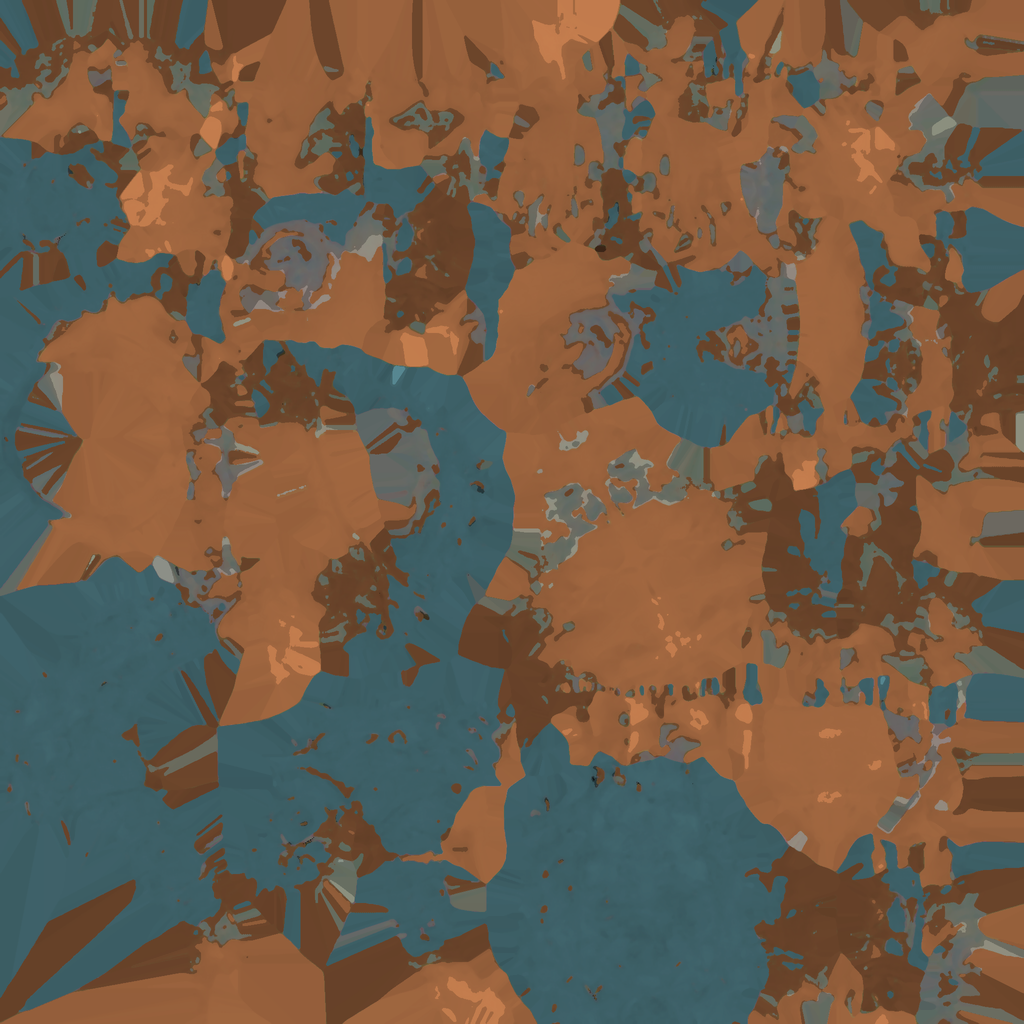
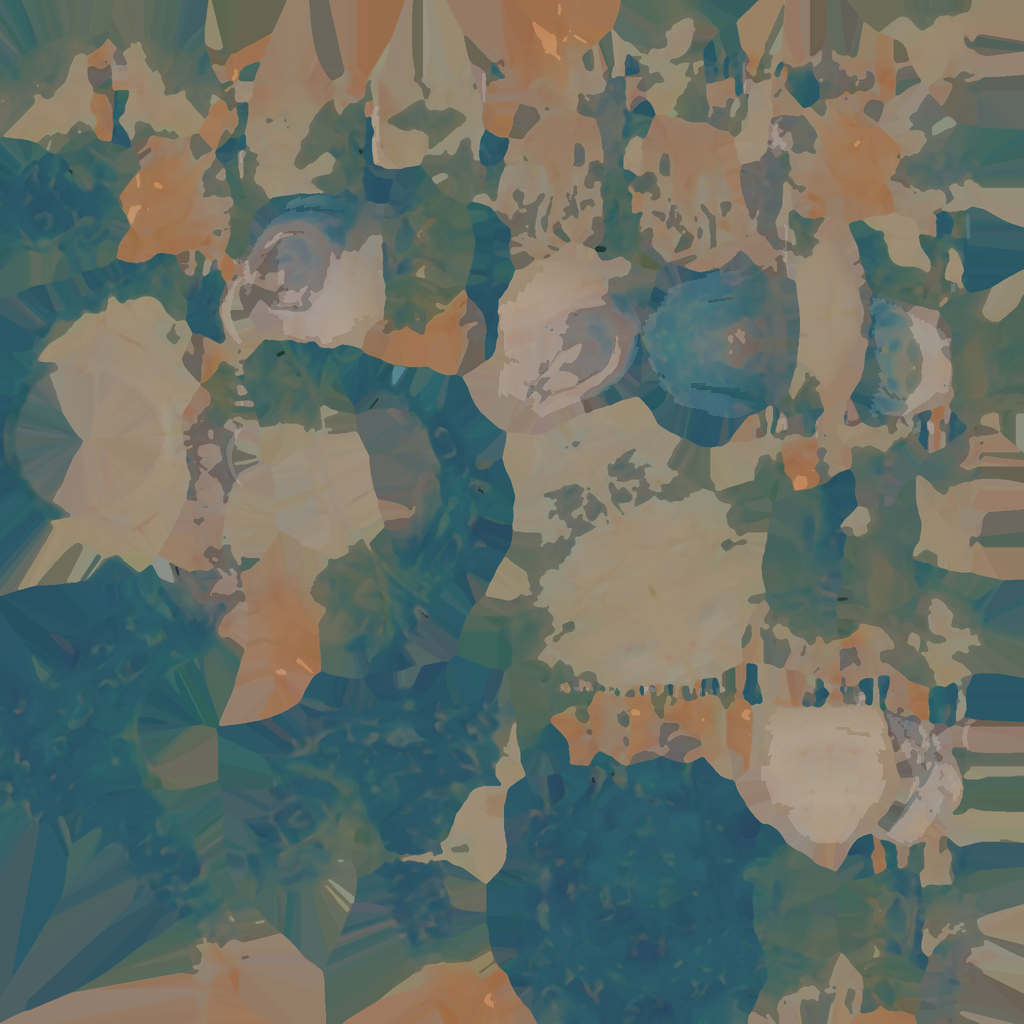
Ground Torrentoad and recover creature faces

diff --git a/tools/repair_torrentoad_attack_grounding.py b/tools/repair_torrentoad_attack_grounding.py
@@ -1,0 +1,168 @@
+#!/usr/bin/env python3
+"""Ground Torrentoad's authored attack without changing its silhouette or timing.
+
+The installed clip rotates the rig through the floor: a native Godot sweep measured
+the rendered minimum at -0.92 m near contact.  Its root translation has only two
+constant keys, so this replaces that channel with one calibrated lift key per source
+frame.  The values are model-local and therefore remain correct for both the base and
+namespaced Water presentation scales.
+"""
+
+from __future__ import annotations
+
+import hashlib
+import json
+import pathlib
+import struct
+
+
+ROOT = pathlib.Path(__file__).resolve().parents[1]
+MODEL = ROOT / "assets/creatures/tetherbound/torrentoad/models/creature_torrentoad_lod0.glb"
[1 lines of base64/hex data omitted]
+ROOT_SAFETY_MARGIN = 0.006
+
+# (seconds, model-local Y lift). Derived from the calibrated CPU skinning model at
+# every 24 fps source frame, with a 0.5 mm local safety margin only where the
+# uncorrected deformed mesh crossed the floor.
+LIFT_KEYS = [
+    (0.000000000, 0.191654611), (0.041666667, 0.191654611),
+    (0.083333333, 0.200132296), (0.125000000, 0.221955451),
+    (0.166666667, 0.250922450), (0.208333333, 0.280929718),
+    (0.250000000, 0.307097265), (0.291666667, 0.326946478),
+    (0.333333333, 0.339371633), (0.375000000, 0.345688603),
+    (0.416666667, 0.347944783), (0.458333333, 0.348340386),
+    (0.500000000, 0.303896651), (0.541666667, 0.184892339),
+    (0.583333333, 0.021714210), (0.625000000, 0.014275387),
+    (0.666666667, 0.021716715), (0.708333333, 0.020780528),
+    (0.750000000, 0.018149921), (0.791666667, 0.014199599),
+    (0.833333333, 0.009363781), (0.875000000, 0.004584988),
+    (0.916666667, 0.001299365), (0.958333333, 0.000000000),
+]
+
+
+def chunks(raw: bytes) -> tuple[dict, bytearray]:
+    magic, version, length = struct.unpack_from("<III", raw, 0)
+    if magic != 0x46546C67 or version != 2 or length != len(raw):
+        raise SystemExit("Torrentoad source is not a valid glTF 2 GLB")
+    offset = 12
+    document = None
+    binary = None
+    while offset < len(raw):
+        size, kind = struct.unpack_from("<II", raw, offset)
+        payload = raw[offset + 8:offset + 8 + size]
+        if kind == 0x4E4F534A:
+            document = json.loads(payload)
+        elif kind == 0x004E4942:
+            binary = bytearray(payload)
+        offset += 8 + size
+    if document is None or binary is None:
+        raise SystemExit("Torrentoad GLB lacks JSON or BIN data")
+    return document, binary
+
+
+def accessor_values(document: dict, binary: bytearray, index: int) -> list[tuple[float, ...]]:
+    accessor = document["accessors"][index]
+    view = document["bufferViews"][accessor["bufferView"]]
+    width = {"SCALAR": 1, "VEC3": 3}[accessor["type"]]
+    start = view.get("byteOffset", 0) + accessor.get("byteOffset", 0)
+    stride = view.get("byteStride", width * 4)
+    return [struct.unpack_from("<" + "f" * width, binary, start + row * stride)
+            for row in range(accessor["count"])]
+
+
+def append_accessor(document: dict, binary: bytearray, values: list[tuple[float, ...]], kind: str) -> int:
+    while len(binary) % 4:
+        binary.append(0)
+    offset = len(binary)
+    width = 1 if kind == "SCALAR" else 3
+    for value in values:
+        binary.extend(struct.pack("<" + "f" * width, *value))
+    view_index = len(document["bufferViews"])
+    document["bufferViews"].append({"buffer": 0, "byteOffset": offset,
+                                     "byteLength": len(values) * width * 4})
+    flattened = list(zip(*values))
+    accessor = {"bufferView": view_index, "componentType": 5126,
+                "count": len(values), "type": kind,
+                "min": [min(axis) for axis in flattened],
+                "max": [max(axis) for axis in flattened]}
+    document["accessors"].append(accessor)
+    return len(document["accessors"]) - 1
+
+
+def overwrite_vec3_accessor(document: dict, binary: bytearray, index: int,
+                            values: list[tuple[float, float, float]]) -> None:
+    accessor = document["accessors"][index]
+    view = document["bufferViews"][accessor["bufferView"]]
+    if accessor["componentType"] != 5126 or accessor["type"] != "VEC3" or accessor["count"] != len(values):
+        raise SystemExit("corrected Torrentoad root accessor has an unexpected shape")
+    start = view.get("byteOffset", 0) + accessor.get("byteOffset", 0)
+    stride = view.get("byteStride", 12)
+    for row, value in enumerate(values):
+        struct.pack_into("<fff", binary, start + row * stride, *value)
+    accessor["min"] = [min(axis) for axis in zip(*values)]
+    accessor["max"] = [max(axis) for axis in zip(*values)]
+
+
+def write_glb(document: dict, binary: bytearray) -> None:
+    document["buffers"][0]["byteLength"] = len(binary)
+    encoded_json = json.dumps(document, separators=(",", ":"), ensure_ascii=False).encode("utf-8")
+    encoded_json += b" " * ((-len(encoded_json)) % 4)
+    binary += b"\0" * ((-len(binary)) % 4)
+    total = 12 + 8 + len(encoded_json) + 8 + len(binary)
+    rebuilt = (struct.pack("<III", 0x46546C67, 2, total)
+               + struct.pack("<II", len(encoded_json), 0x4E4F534A) + encoded_json
+               + struct.pack("<II", len(binary), 0x004E4942) + binary)
+    temporary = MODEL.with_suffix(".glb.tmp")
+    temporary.write_bytes(rebuilt)
+    temporary.replace(MODEL)
+
+
+def main() -> None:
+    raw = MODEL.read_bytes()
+    source_hash = hashlib.sha256(raw).hexdigest().upper()
+    document, binary = chunks(raw)
+    animation = next((item for item in document.get("animations", [])
+                      if item.get("name") == "attack"), None)
+    root = next((index for index, node in enumerate(document.get("nodes", []))
+                 if node.get("name") == "root"), None)
+    channel = next((item for item in animation.get("channels", [])
+                    if item["target"] == {"node": root, "path": "translation"}), None) \
+        if animation is not None else None
+    if channel is None:
+        raise SystemExit("Torrentoad attack root-translation channel is unavailable")
+    sampler = animation["samplers"][channel["sampler"]]
+    existing_times = accessor_values(document, binary, sampler["input"])
+    existing_values = accessor_values(document, binary, sampler["output"])
+    desired_first = LIFT_KEYS[0][1] + ROOT_SAFETY_MARGIN
+    if len(existing_times) == len(LIFT_KEYS):
+        if abs(existing_values[0][1] - desired_first) < 1e-5:
+            print("Torrentoad attack grounding already applied")
+            return
+        if abs(existing_values[0][1] - LIFT_KEYS[0][1]) < 1e-5:
+            translations = [(value[0], value[1] + (ROOT_SAFETY_MARGIN if lift > 0.0 else 0.0), value[2])
+                            for value, (_time, lift) in zip(existing_values, LIFT_KEYS)]
+            overwrite_vec3_accessor(document, binary, sampler["output"], translations)
+            write_glb(document, binary)
+            print("Raised corrected Torrentoad root keys by the trajectory interpolation margin")
+            return
+    if source_hash != SOURCE_SHA256 or len(existing_times) != 2 or len(existing_values) != 2:
+        raise SystemExit("Torrentoad GLB differs from the calibrated source; refusing a blind rewrite")
+
+    start_time, end_time = existing_times[0][0], existing_times[-1][0]
+    start_value, end_value = existing_values
+    times = [(time,) for time, _lift in LIFT_KEYS]
+    translations = []
+    for time, lift in LIFT_KEYS:
+        amount = max(0.0, min(1.0, (time - start_time) / (end_time - start_time)))
+        base = tuple(start_value[axis] + (end_value[axis] - start_value[axis]) * amount
+                     for axis in range(3))
+        translations.append((base[0], base[1] + lift + (ROOT_SAFETY_MARGIN if lift > 0.0 else 0.0), base[2]))
+    sampler["input"] = append_accessor(document, binary, times, "SCALAR")
+    sampler["output"] = append_accessor(document, binary, translations, "VEC3")
+    sampler["interpolation"] = "LINEAR"
+    write_glb(document, binary)
+    print("Grounded Torrentoad attack with %d calibrated root keys" % len(LIFT_KEYS))
+
+
+if __name__ == "__main__":
+    main()

diff --git a/ralph/reports/FOUR-BIOME-BUILD/CREATURE-DISPOSITION-2026-09-10.md b/ralph/reports/FOUR-BIOME-BUILD/CREATURE-DISPOSITION-2026-09-10.md
@@ -1,0 +1,61 @@
+# Creature disposition — 2026-09-10
+
+Status: two retained production improvements, one rejected face experiment, and
+two asset-level gaps isolated. No Meshy generation or credit was spent.
+
+## Retained
+
+- **Skyrill surface hierarchy.** The former rule forced nearly every chromatic
+  texel to one cyan and erased the installed atlas's blue/coral/cream anatomy.
+  The ordinary texture now preserves the source regions, caps only excessive
+  saturation, and lifts/deepens the forward head plane. A fresh production-body
+  orientation capture has a readable eye, muzzle, cream underside and warm wing
+  edge. This improves the installed asset but does not make its broad winged
+  silhouette match the owner's compact sail-backed cliff-lizard board.
+- **Torrentoad palette and attack contact.** The ordinary texture now preserves
+  the source's slate-blue wet back, cream throat and restrained warm digits rather
+  than flattening the body into orange/teal. The attack GLB's constant two-key root
+  translation was replaced by a calibrated source-frame grounding curve. The
+  matched low pose changed from `minimum_world_y=-0.8884697`, `4965` vertices below
+  floor to `minimum_world_y=0.0154347`, `0` below floor. A 25-point full-trajectory
+  native Compatibility sweep has zero below-floor vertices at every sample.
+
+Evidence is intentionally ignored under
+`.artifacts/torrentoad-face-contact-0909/captures/` and
+`.artifacts/broad-visual-0910/creature-orientation01/shots/`.
+
+## Rejected
+
+An anatomy-mapped Torrentoad eye treatment tried dark paired sockets plus amber
+centres. The inner predicate covered nothing and the outer predicate rendered as
+vertical cheek stripes, not eyes. It was removed before the retained texture was
+generated. The final texture contains only the source-preserving grade and broad
+forward-face separation.
+
+## What is actually still wrong
+
+1. **Skyrill is an asset mismatch, not a shader problem.** At its 3.25 m authored
+   height the installed low dragon's rest wings span roughly 12.6 m. The owner board
+   is a compact quadruped with a large eye and dorsal sail. More recolouring cannot
+   reconcile those silhouettes.
+2. **Torrentoad's eyes are not readable frontal forms on the installed mesh.** Its
+   palette and floor contact can be repaired without replacement, but the owner
+   board's large amber eyes are not available as clean visible geometry/UV islands.
+   The rejected paint test establishes that another broad anatomical mask would be
+   fabrication, not recovery of authored detail.
+3. **Exploration crowding is an envelope/admission mismatch.** Spawn admission and
+   creature spacing use gameplay capsule radii while several rendered bodies extend
+   6–11 m. The previously tested shared road ribbon is not a solution: peaceful
+   creatures rotate their complete envelope toward the trainer inside the 9 m notice
+   range. The safe next implementation is habitat/site-specific presentation
+   clearance or a notice-turn constraint, followed by the four-biome route capture;
+   do not shrink the roster or repeat the failed shared ribbon.
+
+## Next authorization boundary
+
+The one agent-generated-reference Meshy pilot was already consumed by Galecrest.
+Replacing Skyrill or Torrentoad is a second subject and therefore needs a new owner
+instruction under `CLAUDE.md`. If one replacement is authorized, Skyrill is the
+higher-leverage first target because its silhouette creates both the board mismatch
+and the largest exploration envelope. Torrentoad should keep the retained grounded
+attack even if its visual asset is later replaced.
